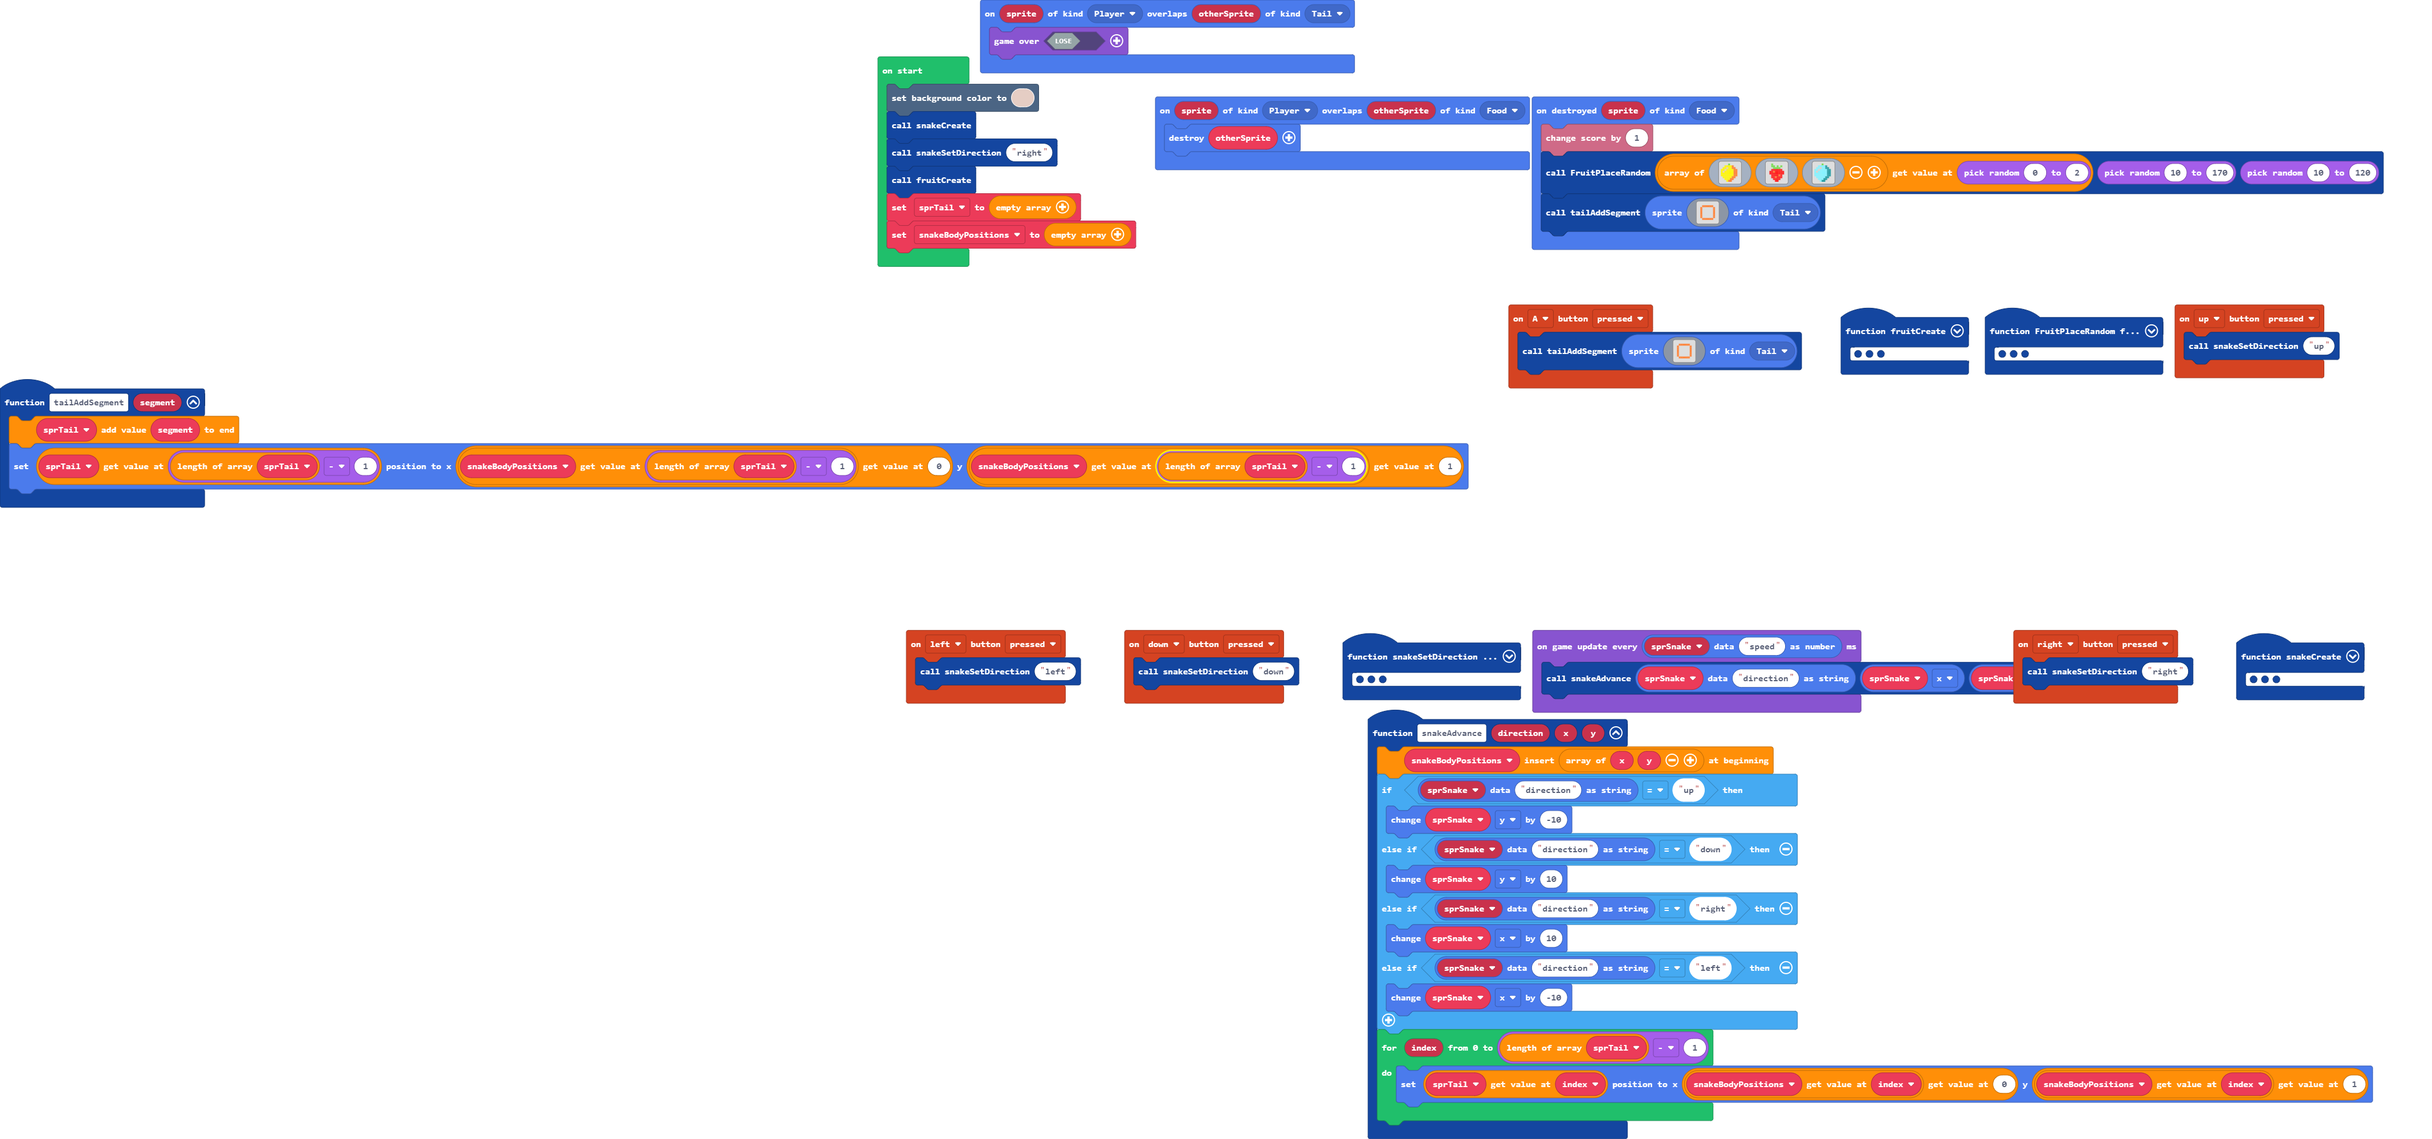
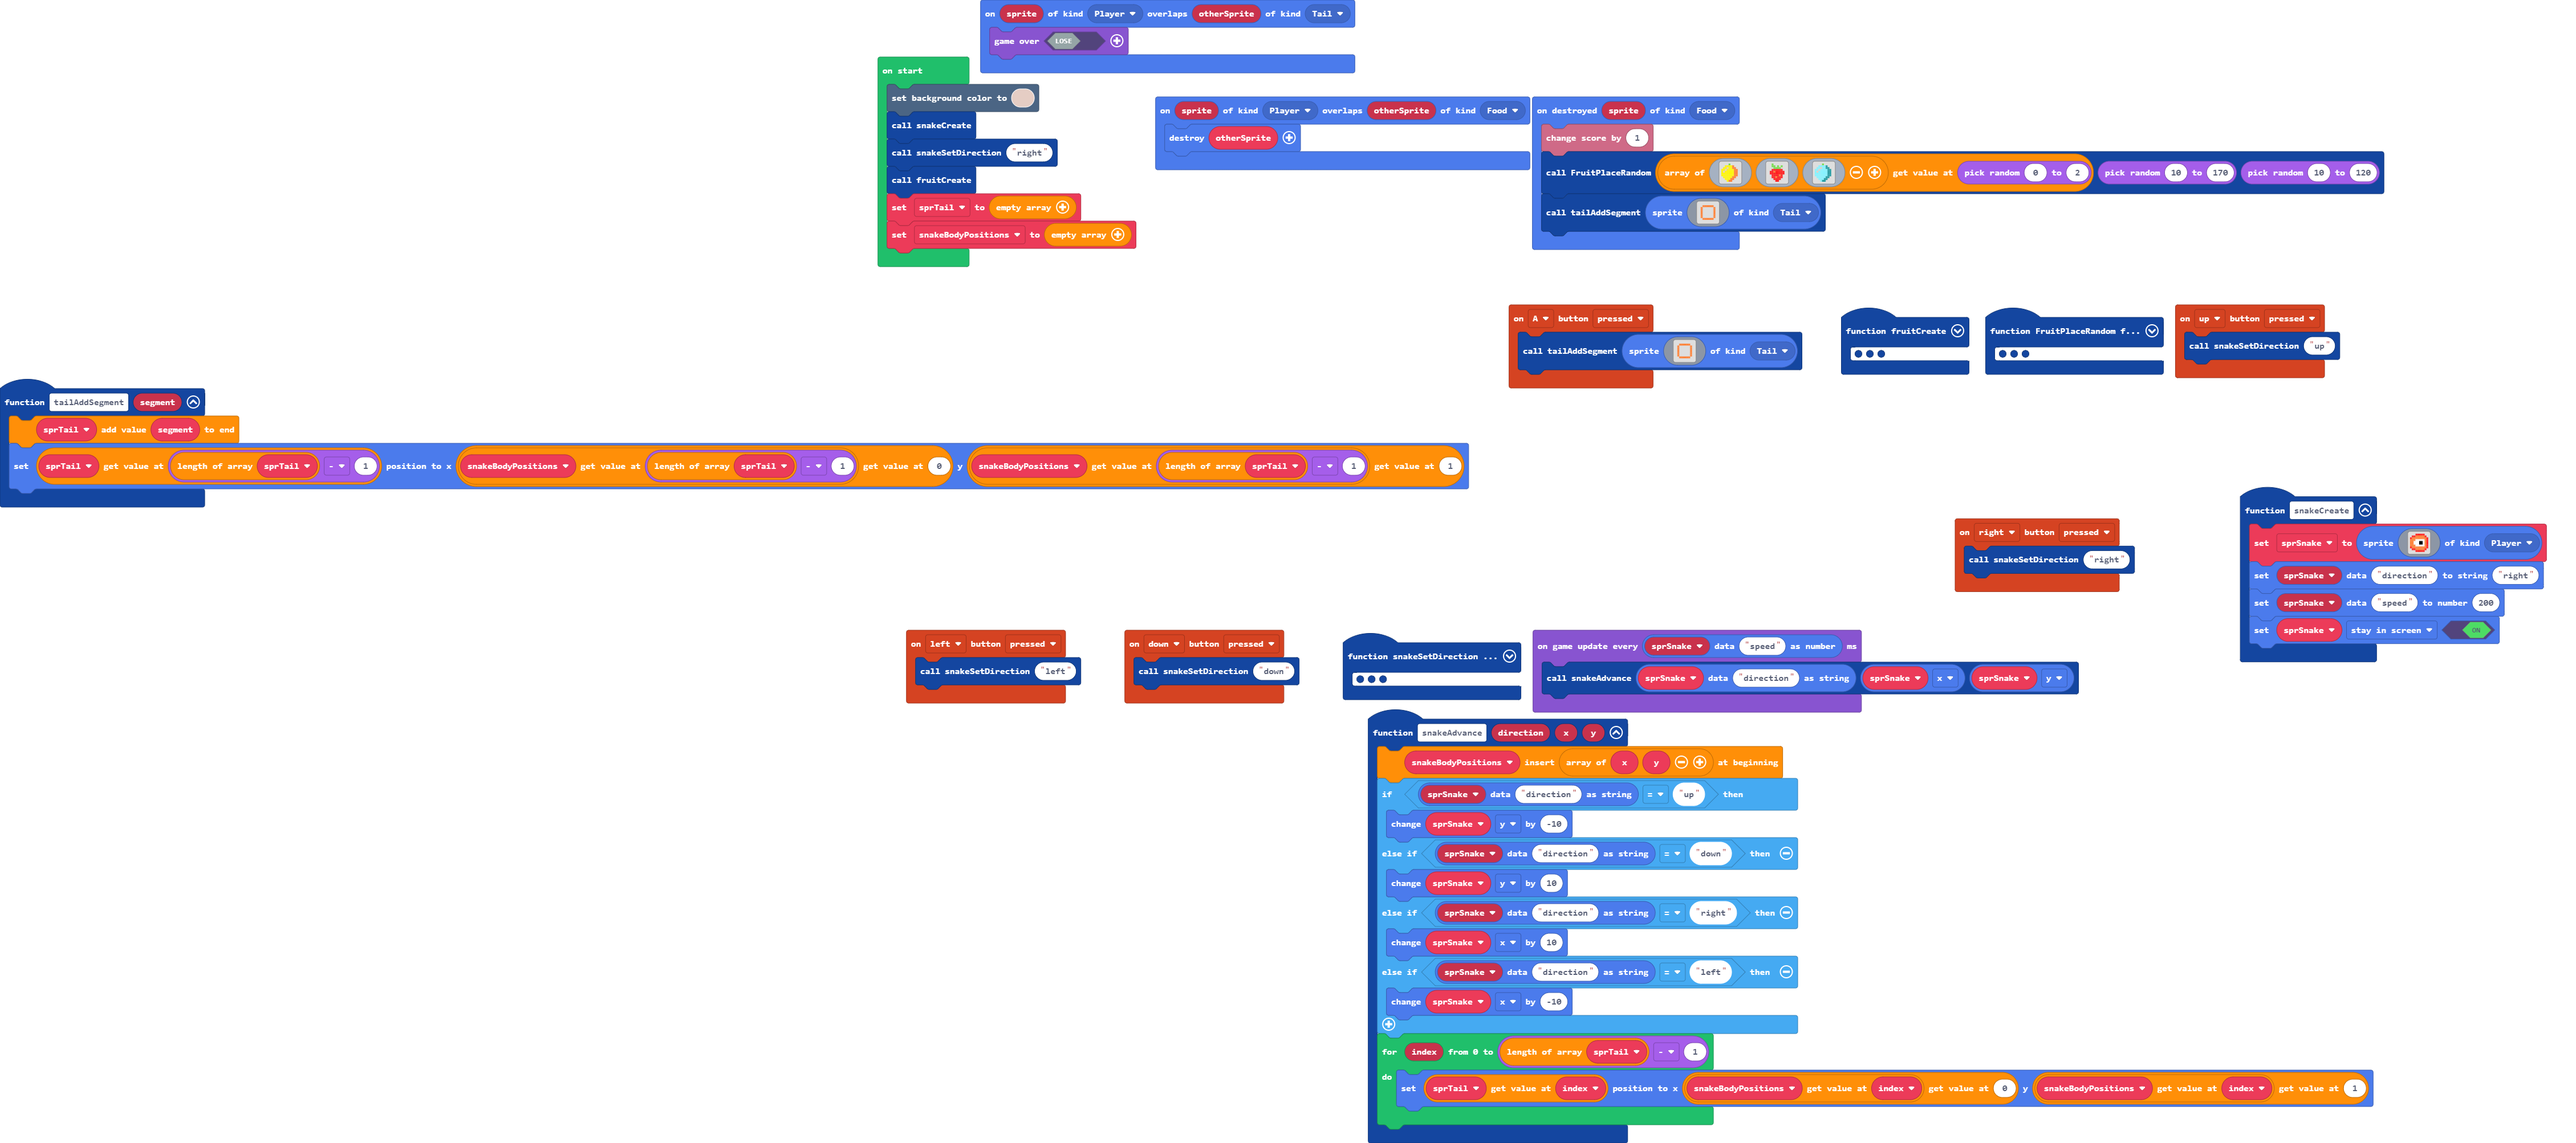
Just made the game end when you bump into the wall.

diff --git a/images.g.ts b/images.g.ts
@@ -3,174 +3,6 @@ namespace myImages {
 
     helpers._registerFactory("image", function(name: string) {
         switch(helpers.stringTrim(name)) {
-            case "image12":return img`
-. . . 2 2 2 2 2 . . 
-. 2 2 4 4 4 4 4 2 . 
-2 4 4 4 4 4 4 4 4 2 
-4 4 4 1 1 1 1 1 4 2 
-4 4 1 1 1 f f 1 4 2 
-4 4 1 1 1 f f 1 4 2 
-4 4 4 1 1 1 1 1 4 2 
-2 4 4 4 4 4 4 4 4 2 
-. 2 2 4 4 4 4 4 2 . 
-. . . 2 2 2 2 2 . . 
-`;
-            case "image13":return img`
-. . . . 7 . . . . . 
-. . 5 5 5 5 4 . . . 
-. 5 5 d 5 5 4 4 . . 
-5 5 d 5 5 5 5 4 4 . 
-5 d 5 5 5 5 5 4 4 . 
-5 5 5 5 5 5 5 4 4 . 
-5 5 5 5 5 5 5 4 4 . 
-. 5 5 5 5 5 4 4 . . 
-. . 5 5 5 4 4 . . . 
-. . . 5 4 4 . . . . 
-`;
-            case "image14":return img`
-. . 7 . . . . . . . 
-. . 7 7 . 7 . 7 . . 
-. . . 7 7 7 7 . . . 
-. . 2 2 2 2 2 2 . . 
-. 2 2 4 2 2 2 2 2 . 
-. 2 2 2 2 2 2 2 2 . 
-. . 2 2 2 2 4 2 . . 
-. . 2 2 4 2 2 2 . . 
-. . . 2 2 2 2 . . . 
-. . . . 2 2 . . . . 
-`;
-            case "image15":return img`
-. . . . 7 . . . . . 
-. . 5 5 5 5 4 . . . 
-. 5 5 d 5 5 4 4 . . 
-5 5 d 5 5 5 5 4 4 . 
-5 d 5 5 5 5 5 4 4 . 
-5 5 5 5 5 5 5 4 4 . 
-5 5 5 5 5 5 5 4 4 . 
-. 5 5 5 5 5 4 4 . . 
-. . 5 5 5 4 4 . . . 
-. . . 5 4 4 . . . . 
-`;
-            case "image16":return img`
-. . . . 7 . . . . . 
-. . 5 5 5 5 4 . . . 
-. 5 5 d 5 5 4 4 . . 
-5 5 d 5 5 5 5 4 4 . 
-5 d 5 5 5 5 5 4 4 . 
-5 5 5 5 5 5 5 4 4 . 
-5 5 5 5 5 5 5 4 4 . 
-. 5 5 5 5 5 4 4 . . 
-. . 5 5 5 4 4 . . . 
-. . . 5 4 4 . . . . 
-`;
-            case "image17":return img`
-. . 7 . . . . . . . 
-. . 7 7 . 7 . 7 . . 
-. . . 7 7 7 7 . . . 
-. . 2 2 2 2 2 2 . . 
-. 2 2 4 2 2 2 2 2 . 
-. 2 2 2 2 2 2 2 2 . 
-. . 2 2 2 2 4 2 . . 
-. . 2 2 4 2 2 2 . . 
-. . . 2 2 2 2 . . . 
-. . . . 2 2 . . . . 
-`;
-            case "image18":return img`
-. . . . 7 . . . . . 
-. . 5 5 5 5 4 . . . 
-. 5 5 d 5 5 4 4 . . 
-5 5 d 5 5 5 5 4 4 . 
-5 d 5 5 5 5 5 4 4 . 
-5 5 5 5 5 5 5 4 4 . 
-5 5 5 5 5 5 5 4 4 . 
-. 5 5 5 5 5 4 4 . . 
-. . 5 5 5 4 4 . . . 
-. . . 5 4 4 . . . . 
-`;
-            case "image30":return img`
-. . . 2 2 2 2 2 . . 
-. 2 2 4 4 4 4 4 2 . 
-2 4 4 4 4 4 4 4 4 2 
-4 4 4 1 1 1 1 1 4 2 
-4 4 1 1 1 f f 1 4 2 
-4 4 1 1 1 f f 1 4 2 
-4 4 4 1 1 1 1 1 4 2 
-2 4 4 4 4 4 4 4 4 2 
-. 2 2 4 4 4 4 4 2 . 
-. . . 2 2 2 2 2 . . 
-`;
-            case "image31":return img`
-. . . . 7 . . . . . 
-. . 5 5 5 5 4 . . . 
-. 5 5 d 5 5 4 4 . . 
-5 5 d 5 5 5 5 4 4 . 
-5 d 5 5 5 5 5 4 4 . 
-5 5 5 5 5 5 5 4 4 . 
-5 5 5 5 5 5 5 4 4 . 
-. 5 5 5 5 5 4 4 . . 
-. . 5 5 5 4 4 . . . 
-. . . 5 4 4 . . . . 
-`;
-            case "image32":return img`
-. . 7 . . . . . . . 
-. . 7 7 . 7 . 7 . . 
-. . . 7 7 7 7 . . . 
-. . 2 2 2 2 2 2 . . 
-. 2 2 4 2 2 2 2 2 . 
-. 2 2 2 2 2 2 2 2 . 
-. . 2 2 2 2 4 2 . . 
-. . 2 2 4 2 2 2 . . 
-. . . 2 2 2 2 . . . 
-. . . . 2 2 . . . . 
-`;
-            case "image33":return img`
-. . . . 7 . . . . . 
-. . 5 5 5 5 4 . . . 
-. 5 5 d 5 5 4 4 . . 
-5 5 d 5 5 5 5 4 4 . 
-5 d 5 5 5 5 5 4 4 . 
-5 5 5 5 5 5 5 4 4 . 
-5 5 5 5 5 5 5 4 4 . 
-. 5 5 5 5 5 4 4 . . 
-. . 5 5 5 4 4 . . . 
-. . . 5 4 4 . . . . 
-`;
-            case "image34":return img`
-. . . . 7 . . . . . 
-. . 5 5 5 5 4 . . . 
-. 5 5 d 5 5 4 4 . . 
-5 5 d 5 5 5 5 4 4 . 
-5 d 5 5 5 5 5 4 4 . 
-5 5 5 5 5 5 5 4 4 . 
-5 5 5 5 5 5 5 4 4 . 
-. 5 5 5 5 5 4 4 . . 
-. . 5 5 5 4 4 . . . 
-. . . 5 4 4 . . . . 
-`;
-            case "image35":return img`
-. . 7 . . . . . . . 
-. . 7 7 . 7 . 7 . . 
-. . . 7 7 7 7 . . . 
-. . 2 2 2 2 2 2 . . 
-. 2 2 4 2 2 2 2 2 . 
-. 2 2 2 2 2 2 2 2 . 
-. . 2 2 2 2 4 2 . . 
-. . 2 2 4 2 2 2 . . 
-. . . 2 2 2 2 . . . 
-. . . . 2 2 . . . . 
-`;
-            case "image36":return img`
-. . . . 7 . . . . . 
-. . 5 5 5 5 4 . . . 
-. 5 5 d 5 5 4 4 . . 
-5 5 d 5 5 5 5 4 4 . 
-5 d 5 5 5 5 5 4 4 . 
-5 5 5 5 5 5 5 4 4 . 
-5 5 5 5 5 5 5 4 4 . 
-. 5 5 5 5 5 4 4 . . 
-. . 5 5 5 4 4 . . . 
-. . . 5 4 4 . . . . 
-`;
             case "image37":return img`
 . . . 2 2 2 2 2 . . 
 . 2 2 4 4 4 4 4 2 . 
@@ -256,30 +88,6 @@ namespace myImages {
 . . . 9 6 6 . . . . 
 `;
             case "image1":return img`
-. . . . . . . . . . 
-. . 4 4 4 4 4 4 . . 
-. 4 . . . . . . 4 . 
-. 4 . . . . . . 4 . 
-. 4 . . . . . . 4 . 
-. 4 . . . . . . 4 . 
-. 4 . . . . . . 4 . 
-. 4 . . . . . . 4 . 
-. . 4 4 4 4 4 4 . . 
-. . . . . . . . . . 
-`;
-            case "image4":return img`
-. . . . . . . . . . 
-. . 4 4 4 4 4 4 . . 
-. 4 . . . . . . 4 . 
-. 4 . . . . . . 4 . 
-. 4 . . . . . . 4 . 
-. 4 . . . . . . 4 . 
-. 4 . . . . . . 4 . 
-. 4 . . . . . . 4 . 
-. . 4 4 4 4 4 4 . . 
-. . . . . . . . . . 
-`;
-            case "image2":return img`
 . . . . . . . . . . 
 . . 4 4 4 4 4 4 . . 
 . 4 . . . . . . 4 . 

diff --git a/main.ts b/main.ts
@@ -101,6 +101,7 @@ function snakeCreate () {
         `, SpriteKind.Player)
     sprites.setDataString(sprSnake, "direction", "right")
     sprites.setDataNumber(sprSnake, "speed", 200)
+    sprSnake.setFlag(SpriteFlag.StayInScreen, true)
 }
 controller.left.onEvent(ControllerButtonEvent.Pressed, function () {
     snakeSetDirection("left")
